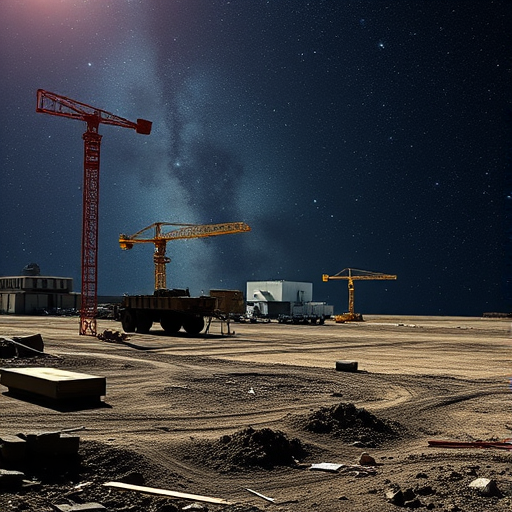
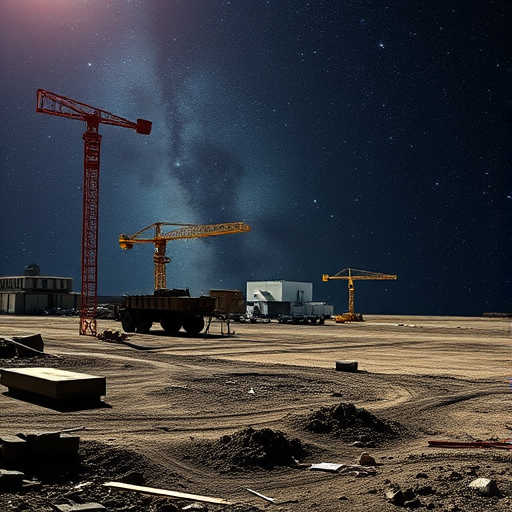
chore: compress images
Some images are too large (over 1 MB).
Compressed images to under 500 KB.
PNG converted to JPG (unless alpha layer required)
Addresses issue #1

Signed-off by: EO <504068014080@tutanota.com>

diff --git a/README.md b/README.md
@@ -72,7 +72,7 @@ This repository is organized into only a few main folders...
    │   └── news_carousel.js      # News carousel UI interactions
    ├── logo_black.webp           
    ├── logo_white.webp
-   └── sq_sc-obc_module_a1.png   
+   └── sq_sc-obc_module_a1.jpg   
 
 ...and some important configuration files such as...
 
@@ -136,7 +136,7 @@ Content here
 #### Prefooter Cards
 ```html
 {% prefooter(
-  left_card_image="earth.png",
+  left_card_image="earth.jpg",
   left_title="RECRUIT",
   left_link="/recruit"
 ) %}
@@ -159,7 +159,7 @@ Content here...
 
 
 {% prefooter(
-  left_card_image="earth.png",
+  left_card_image="earth.jpg",
   left_title="RECRUIT",
   left_link="/recruit"
 ) %}

diff --git a/content/_index.md b/content/_index.md
@@ -26,7 +26,7 @@ title = "Space Cubics Inc."
 {% end %}
 
 {% hero_element(
-  bg="about.png",
+  bg="sq_about_img2.jpg",
   title="ABOUT US",
   subtitle="To drink beer",
   slogan="ON THE MOON",
@@ -89,7 +89,7 @@ title = "Space Cubics Inc."
 {% end %}
 
 {% prefooter(
-  left_card_image="earth.png", 
+  left_card_image="earth.jpg", 
   right_card_image="sq_ir_img2.jpg",
 
  left_title="RECRUIT",

diff --git a/content/recruit/_index.md b/content/recruit/_index.md
@@ -7,7 +7,7 @@ sort_by = "date"
 {% end %}
 
 {% twocol(
-  bg="earth.png",
+  bg="earth.jpg",
   title="",
   subtitle="",
   slogan="",
@@ -67,7 +67,7 @@ FPGAエンジニア |
 
 {% prefooter(
   left_card_image="sq_about_img2.jpg", 
-  right_card_image="earth.png",
+  right_card_image="earth.jpg",
 
   left_title="ABOUT US",
   left_subtitle="私たちについて",

diff --git a/content/recruit/_index.en.md b/content/recruit/_index.en.md
@@ -7,7 +7,7 @@ sort_by = "date"
 {% end %}
 
 {% twocol(
-  bg="earth.png",
+  bg="earth.jpg",
   title="",
   subtitle="",
   slogan="",
@@ -69,7 +69,7 @@ Thermal Engineer |
 
 {% prefooter(
   left_card_image="sq_about_img2.jpg", 
-  right_card_image="earth.png",
+  right_card_image="earth.jpg",
 
   left_title="ABOUT US",
   left_subtitle="Company details",

diff --git a/content/about_us/_index.en.md b/content/about_us/_index.en.md
@@ -81,7 +81,7 @@ Now, we deploy our space computers in CubeSats using Space One's KAIROS rocket. 
 
 {% prefooter(
   left_card_image="white_pcb_dark.jpg",
-  right_card_image="earth.png",
+  right_card_image="earth.jpg",
 
   left_title = "PRODUCTS"
   left_subtitle = "Board introduction"

diff --git a/content/_index.en.md b/content/_index.en.md
@@ -90,7 +90,7 @@ Our mission is to support sustainable growth through partnership with teams that
 {% end %}
 
 {% prefooter(
-  left_card_image="earth.png", 
+  left_card_image="earth.jpg", 
   right_card_image="sq_ir_img2.jpg",
 
  left_title="RECRUIT",

diff --git a/content/sc_obc/_index.md b/content/sc_obc/_index.md
@@ -116,7 +116,7 @@
 
   {% prefooter(
     left_card_image="sq_about_img2.jpg", 
-    right_card_image="earth.png",
+    right_card_image="earth.jpg",
 
     left_title="ABOUT US",
     left_subtitle="私たちについて",

diff --git a/content/about_us/_index.md b/content/about_us/_index.md
@@ -83,7 +83,7 @@ TEL｜050-7112-6213
 
 {% prefooter(
   left_card_image="white_pcb_dark.jpg",
-  right_card_image="earth.png",
+  right_card_image="earth.jpg",
 
   left_title = "PRODUCTS"
   left_subtitle = "製品紹介"

diff --git a/content/sc_obc/_index.en.md b/content/sc_obc/_index.en.md
@@ -116,7 +116,7 @@
 
   {% prefooter(
     left_card_image="sq_about_img2.jpg", 
-    right_card_image="earth.png",
+    right_card_image="earth.jpg",
 
     left_title="ABOUT US",
     left_subtitle="Company details",

diff --git a/content/products/_index.md b/content/products/_index.md
@@ -47,7 +47,7 @@
 
 {% prefooter(
   left_card_image="sq_about_img2.jpg", 
-  right_card_image="earth.png",
+  right_card_image="earth.jpg",
 
   left_title="ABOUT US",
   left_subtitle="私たちについて",

diff --git a/content/products/_index.en.md b/content/products/_index.en.md
@@ -47,7 +47,7 @@
 
 {% prefooter(
   left_card_image="sq_about_img2.jpg", 
-  right_card_image="earth.png",
+  right_card_image="earth.jpg",
 
   left_title="ABOUT US",
   left_subtitle="Company details",

diff --git a/content/contact/_index.en.md b/content/contact/_index.en.md
@@ -6,7 +6,7 @@
 {% end %}
 
 {% twocol(
-  bg="earth.png",
+  bg="earth.jpg",
   title="",
   subtitle="",
   slogan="",
